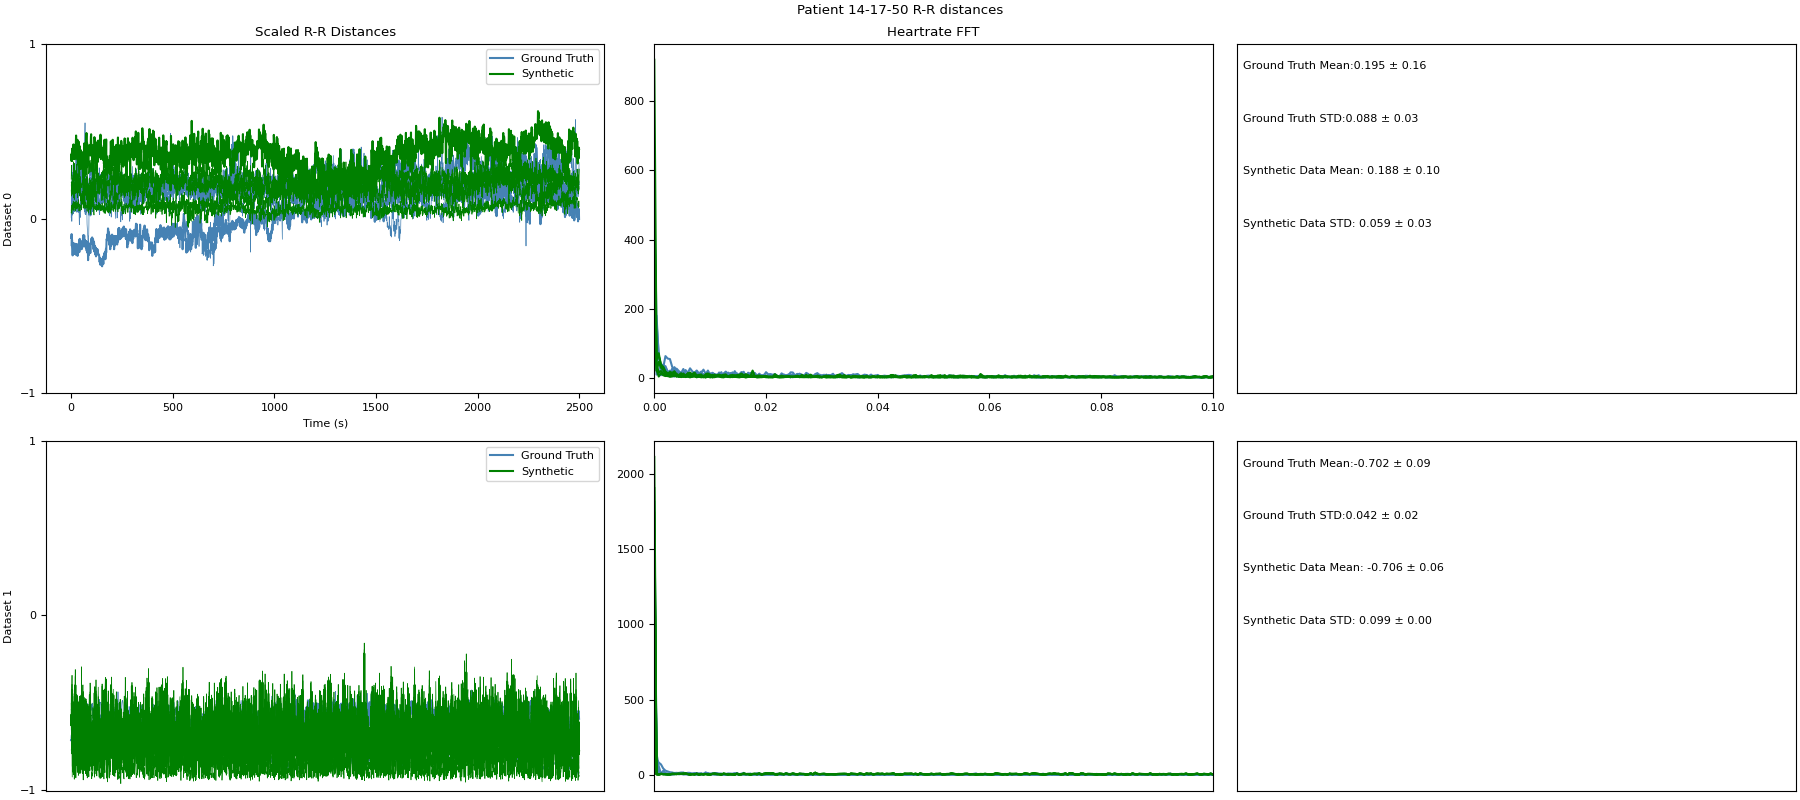
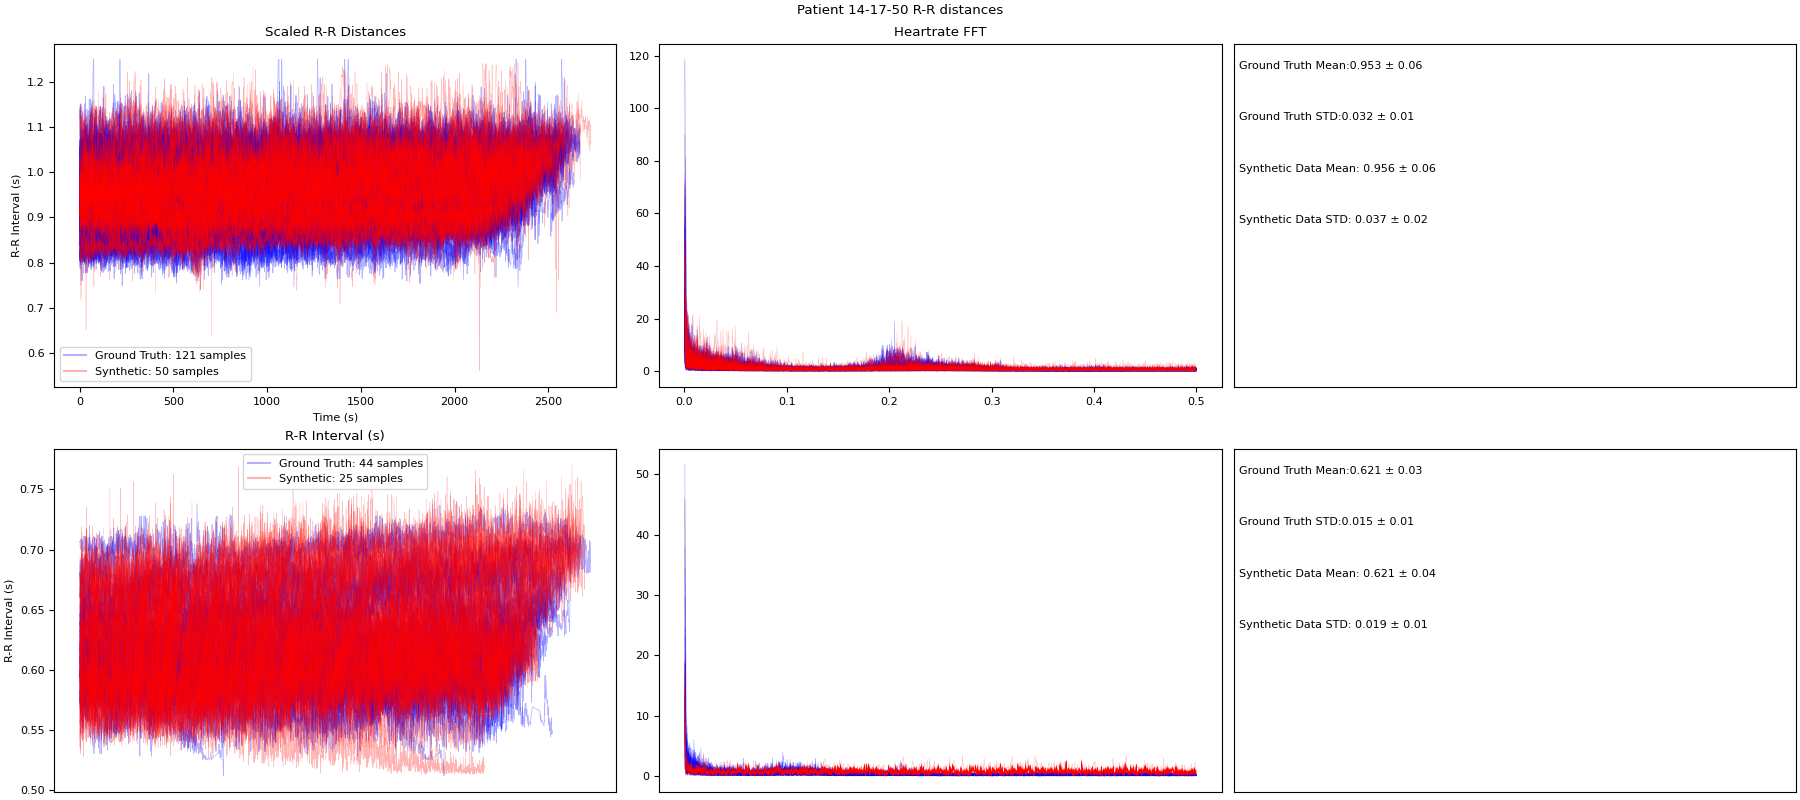
de-scaled data and improved plot readability in accordance with the requests in the monday deeptankar meeting

diff --git a/train_gan_heartrate.py b/train_gan_heartrate.py
@@ -46,7 +46,7 @@ def make_GAN_test_set(dataset:np.ndarray):
     test_set = dataset.astype(np.float32).T
     return dataloader, test_set
 
-def train_store_gan(train, name, just_load, epochs=500):
+def train_store_gan(train, name, just_load, epochs):
     """
     if just_load, then we just load the generator and return it.
     If just_load is false, then train the new GAN and store it with
@@ -72,6 +72,7 @@ def get_histograms(name='dist_hist'):
     axes = axes.flatten()
     for itr, (patient,split) in enumerate(zip(patient_names,split_locs)):
         heartrate_data = np.loadtxt(f'processed_data/heartrate_{patient}.csv',delimiter=',')
+        heartrate_data = heartrate_data[:-2] #remove min and max
         counts, _, _ = axes[itr].hist(heartrate_data, bins=200)
         axes[itr].set_title(f"Patient {patient} - distribution split at {split}")
         axes[itr].vlines(split,ymin=0, ymax=max(counts)*0.8, color='red')
@@ -90,6 +91,7 @@ def get_dist_plots(name='dist_plot'):
         axes = [axes]
     for itr, (patient,split) in enumerate(zip(patient_names,split_locs)):
         heartrate_data = np.loadtxt(f'processed_data/heartrate_{patient}.csv',delimiter=',')
+        heartrate_data = heartrate_data[:-2] #remove min and max
         axes[itr].plot(heartrate_data)
         axes[itr].set_title(f"Patient {patient} - distribution split at {split}")
         if split:
@@ -107,7 +109,10 @@ def split_patient(patient_name:str, split_loc:float, stride:int=snip_len//2):
     split the data into two sets, one of which is a set of continuious snips greater than split_loc
     and the other is lower
     """
-    heartrate_data = np.loadtxt(f'processed_data/heartrate_{patient_name}.csv',delimiter=',')
+    heartrate_data_raw = np.loadtxt(f'processed_data/heartrate_{patient_name}.csv',delimiter=',')
+    heartrate_data = heartrate_data_raw[:-2] #remove min and max
+    heartrate_min = heartrate_data_raw[-2]
+    heartrate_max = heartrate_data_raw[-1]
     segments = np.lib.stride_tricks.sliding_window_view(heartrate_data, window_shape=snip_len)
     segments = segments[::stride]
     # Boolean masks
@@ -118,21 +123,22 @@ def split_patient(patient_name:str, split_loc:float, stride:int=snip_len//2):
     segments_gt = segments[mask_gt]
     segments_lt = segments[mask_lt]
 
-    return segments_gt.T, segments_lt.T
+    return segments_gt.T, segments_lt.T, heartrate_min, heartrate_max
 
-def get_synthetic_outputs(dataloaders, names, iterations, just_load):
-    synthetic_outputs = []
-    for dataloader, name in zip(dataloaders, names):
-        wgan_gp = train_store_gan(dataloader, name, just_load)
-        synthetic_output = np.array([wgan_gp(torch.randn(1, 100).cuda()).cpu().detach().numpy().squeeze() for _ in range(iterations)])
+def get_synthetic_outputs(gan, iterations, latent_dim=100):
+    """
+    Given a Pytorch GAN model of latent_dim 100, run the gan iterations times and put the result
+    in a numpy array which is returned
+    """
+    synthetic_output = np.array([gan(torch.randn(1, 100).cuda()).cpu().detach().numpy().squeeze() for _ in range(iterations)])
+    return synthetic_output
 
-        synthetic_outputs.append(synthetic_output)
-    return synthetic_outputs
-
-
-def final_plot(synth_data:list, ground_truth_data:list, name:str, show=False):
-    fig, axes = plt.subplots(2,3,figsize=(18,8),constrained_layout=True)
+def final_plot(synth_data:list, ground_truth_data:list, data_max:float, data_min:float, name:str, alpha=0.3):
+    fig, axes = plt.subplots(len(synth_data),3,figsize=(18,8),constrained_layout=True)
     for itr, (synthetic, ground_truth) in enumerate(zip(synth_data, ground_truth_data)):
+        synthetic =   ((synthetic + 1) / 2) * (data_max - data_min) + data_min
+        ground_truth =  ((ground_truth + 1) / 2) * (data_max - data_min) + data_min
+
         wave_ax = axes[itr,0]
         fft_ax = axes[itr,1]
         text_ax = axes[itr,2]
@@ -140,22 +146,23 @@ def final_plot(synth_data:list, ground_truth_data:list, name:str, show=False):
         all_gt_fft = []
         all_synth_fft = []
 
-        for it, gt_wave in enumerate(ground_truth[:5]):
+        for it, gt_wave in enumerate(ground_truth):
+            gt_squeezed = gt_wave.squeeze()
             if it==0:
-                wave_ax.plot(gt_wave.squeeze().flatten(), color='steelblue', label='Ground Truth')
+                wave_ax.plot(np.cumsum(gt_squeezed), gt_squeezed, color='blue', alpha=alpha, label=f'Ground Truth: {len(ground_truth)} samples')
             else:
-                wave_ax.plot(gt_wave.squeeze().flatten(), linewidth=0.5, color='steelblue')
-            freq, mag, _ = fft_transform(gt_wave.squeeze())
-            fft_ax.plot(freq, mag, color='steelblue')
+                wave_ax.plot(np.cumsum(gt_squeezed), gt_squeezed, alpha=alpha, linewidth=0.5, color='blue')
+            freq, mag, _ = fft_transform(gt_squeezed)
+            fft_ax.plot(freq[1:], mag[1:], linewidth=0.5, alpha=alpha, color='blue')
             all_gt_fft.append(mag)
 
-        for it, synth_wave in enumerate(synthetic[:5]):
+        for it, synth_wave in enumerate(synthetic):
             if it == 0:
-                wave_ax.plot(range(len(synth_wave)), synth_wave, color='green', label="Synthetic")
+                wave_ax.plot(np.cumsum(synth_wave), synth_wave, color='red', alpha=alpha, label=f'Synthetic: {len(synthetic)} samples')
             else:
-                wave_ax.plot(range(len(synth_wave)), synth_wave, linewidth=0.5,color='green')
+                wave_ax.plot(np.cumsum(synth_wave), synth_wave, alpha=alpha, linewidth=alpha, color='red')
             synth_freq, synth_mag, synth_peaks = fft_transform(synth_wave)
-            fft_ax.plot(synth_freq, synth_mag, color='green')
+            fft_ax.plot(synth_freq[1:], synth_mag[1:], linewidth=alpha, alpha=alpha, color='red')
             all_synth_fft.append(synth_mag)
 
         synth_mean = f'{np.mean(synthetic):.3f} \u00B1 {np.std(np.mean(synthetic, axis=1)):.2f}'
@@ -164,9 +171,8 @@ def final_plot(synth_data:list, ground_truth_data:list, name:str, show=False):
         gt_mean = f'{np.mean(ground_truth):.3f} \u00B1 {np.std(np.mean(ground_truth, axis=2)):.2f}'
         gt_std = f'{np.mean(np.std(ground_truth, axis=2)):.3f} \u00B1 {np.std(np.std(ground_truth, axis=2)):.2f}'
 
-        #wave_ax.set_ylim(-1.1,1.1)
-        wave_ax.set_ylabel(f"Dataset {itr}")
-        wave_ax.set_yticks([-1,0,1])
+        wave_ax.set_ylabel("R-R Interval (s)")
+        wave_ax.set_title("R-R Interval (s)")
         wave_ax.legend()
 
         text_ax.text(0.01, 0.95, f'Ground Truth Mean:{gt_mean}', ha='left', va='top')
@@ -183,8 +189,6 @@ def final_plot(synth_data:list, ground_truth_data:list, name:str, show=False):
         text_ax.set_xticks([])
         text_ax.set_yticks([])
 
-        fft_ax.set_xlim(0,0.1)
-
         if itr==0:
             fft_ax.set_title("Heartrate FFT")
             wave_ax.set_title("Scaled R-R Distances")
@@ -196,15 +200,13 @@ def final_plot(synth_data:list, ground_truth_data:list, name:str, show=False):
 
     plt.suptitle(name)
     plt.savefig(f'figures/{name}.png')
-    if show:
-        plt.show()
+    plt.show()
 
-get_histograms()
-get_dist_plots()
-
-
-high_data, low_data = split_patient(patient_name = '14-17-50', split_loc= -0.37)
+high_data, low_data, data_min, data_max = split_patient(patient_name = '14-17-50', split_loc= -0.37)
 high_data_dl, high_data_test = make_GAN_test_set(high_data)
 low_data_dl, low_data_test = make_GAN_test_set(low_data)
-synthetic_outputs = get_synthetic_outputs((high_data_dl, low_data_dl),('high_dataset', 'low_dataset'), iterations=20, just_load=True)
-final_plot(synthetic_outputs, [high_data_test,low_data_test], name='Patient 14-17-50 R-R distances',  show=True)
+wgan_gp_high = train_store_gan(high_data_dl, 'high_dataset', just_load=False, epochs=5000)
+wgan_gp_low = train_store_gan(low_data_dl, 'low_dataset', just_load=False, epochs=5000)
+synth_high = get_synthetic_outputs(wgan_gp_high, iterations=50)
+synth_low = get_synthetic_outputs(wgan_gp_low, iterations=25)
+final_plot([synth_high, synth_low], [high_data_test,low_data_test], data_max=data_max, data_min=data_min, name='Patient 14-17-50 R-R distances')

diff --git a/make_scaled_rr_csvs.py b/make_scaled_rr_csvs.py
@@ -13,20 +13,17 @@ heartrate_hz = 10 #the x values are 10th of a second
 ecg_hz = 500
 snip_len = 500*10
 
-def scale_data(x:np.ndarray) -> np.ndarray:
+def scale_data(x:np.ndarray):
     x_scaled = 2*(x - x.min()) / (x.max() - x.min())-1
-    return x_scaled
-
-def process_heartrate_file(rr_distance_ms):
-    rr_distance_ms = np.clip(rr_distance_ms, a_min=None, a_max=2000)
-    x_axis = np.cumsum(rr_distance_ms)
-    bpm = 60000/rr_distance_ms
-    f_interp_bpm = interp1d(x_axis, bpm, kind='linear')
-    x_bpm = np.arange(x_axis[0], x_axis[-1]-1, 1000/heartrate_hz)
-    interpolated_bpm = f_interp_bpm(x_bpm)
-    return interpolated_bpm, x_bpm
+    return x_scaled, x.min(), x.max()
 
 def process_patient_data(name:str, parts:int):
+    """
+    Save the data corresponding to the input name in a csv file. The format of the file will go:
+    scaled data ; min value ; max value
+    The reason that the min and max are saved is so that the data can be un-scaled after it is
+    used to train the GAN which requires the scaling
+    """
     all_rr = np.array([])
     for i in range(1,parts+1):
         for j in range(len(glob.glob(f"heartrate_data/{name}_24_hours_part{i}_v3_everyRRQTinputIntoEntropy_*.csv"))):
@@ -34,8 +31,10 @@ def process_patient_data(name:str, parts:int):
             data_file = np.genfromtxt(f, skip_header=1, usecols=([1]), delimiter=',')
             clipped_datafile = np.clip(data_file, a_min=0, a_max=1.25)
             all_rr = np.append(all_rr,clipped_datafile)
+    x_scaled, min, max = scale_data(all_rr)
 
-    np.savetxt(f"processed_data/heartrate_{name}.csv", scale_data(all_rr), delimiter = ",")
+
+    np.savetxt(f"processed_data/heartrate_{name}.csv", np.append(x_scaled,np.array([min,max])), delimiter = ",")
 
 process_patient_data('06-31-24', parts=2)
 process_patient_data('09-40-14', parts=5)
